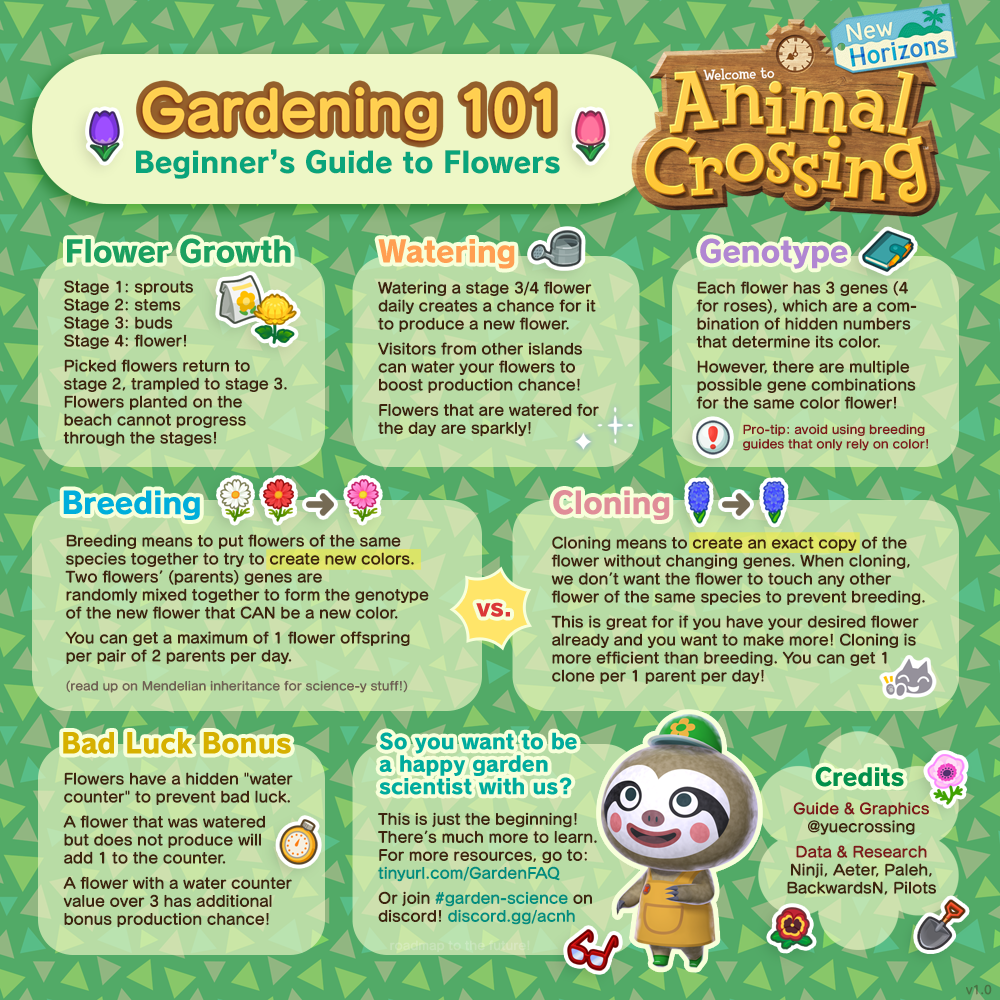
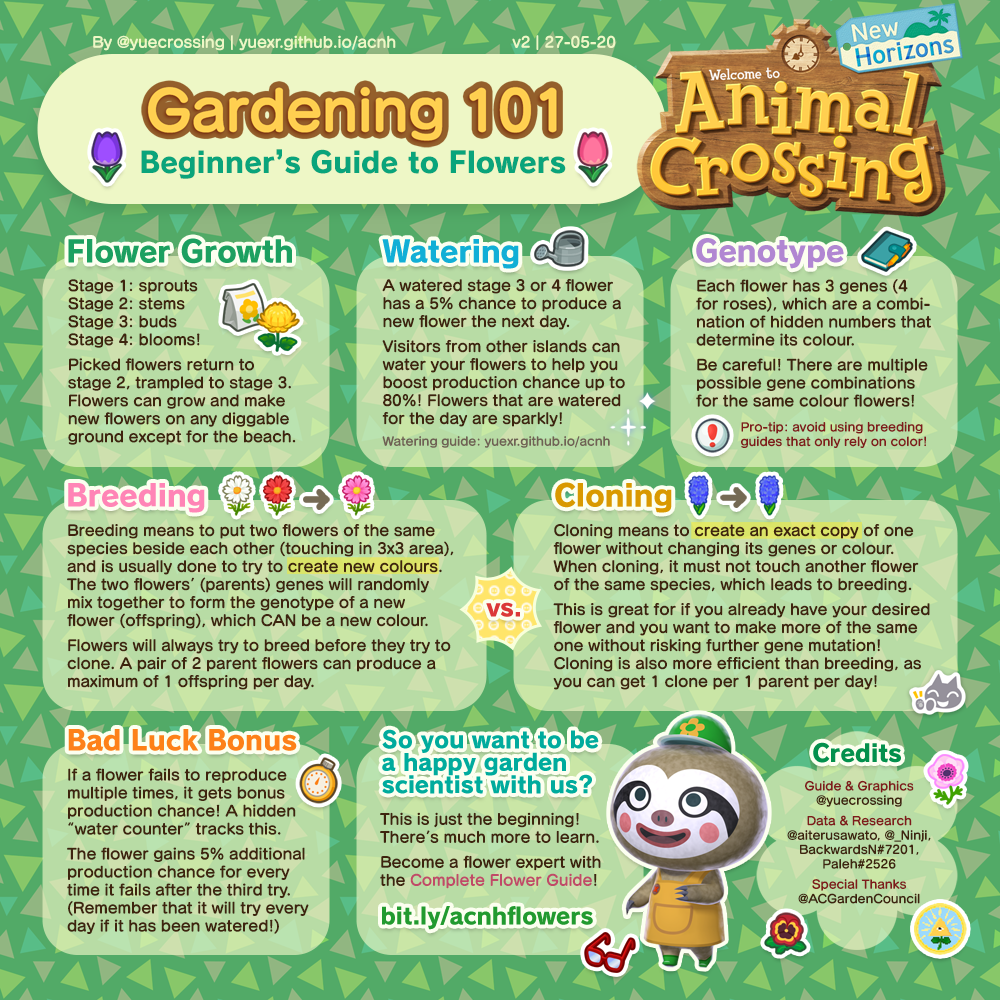
garden v2 updates

diff --git a/acnh/garden.html b/acnh/garden.html
@@ -62,7 +62,7 @@
             <img src="/img/gardening101.png" alt="gardening101"><hr><br>
 
             <a name="watering"></a><h2>Visitor Watering Bonus</h2>
-            <img src="/img/watering2.png" alt="watering"><hr><br>
+            <img src="/img/watering.png" alt="watering"><hr><br>
 
             <a name="goldrose"></a><h2>Gold Roses & Golden Can</h2>
             <img src="/img/goldrose.png" alt="goldrose"><hr><br>
